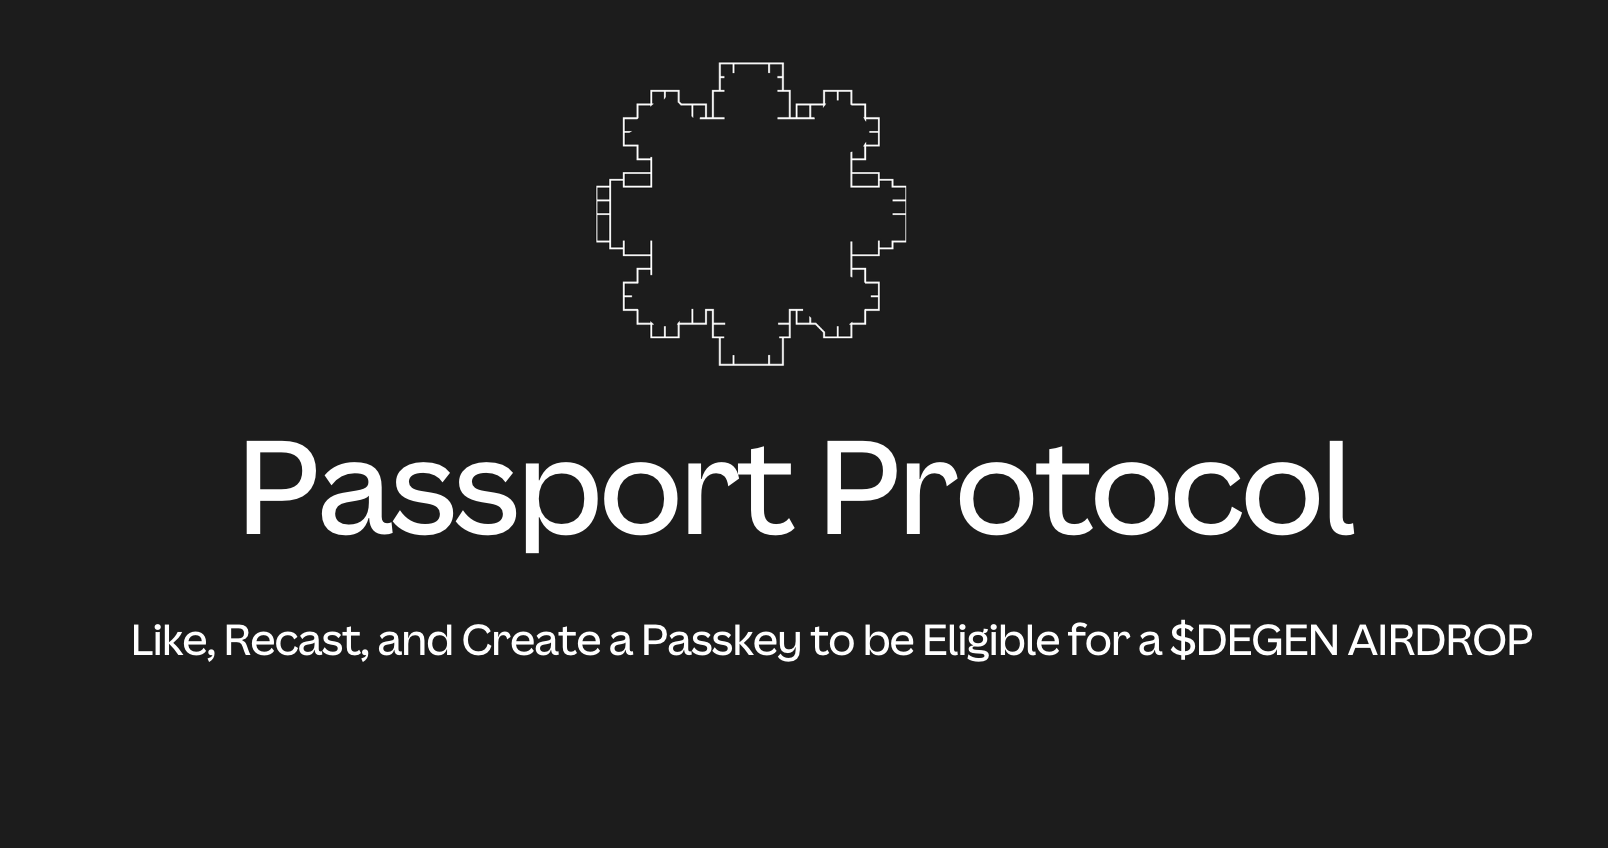
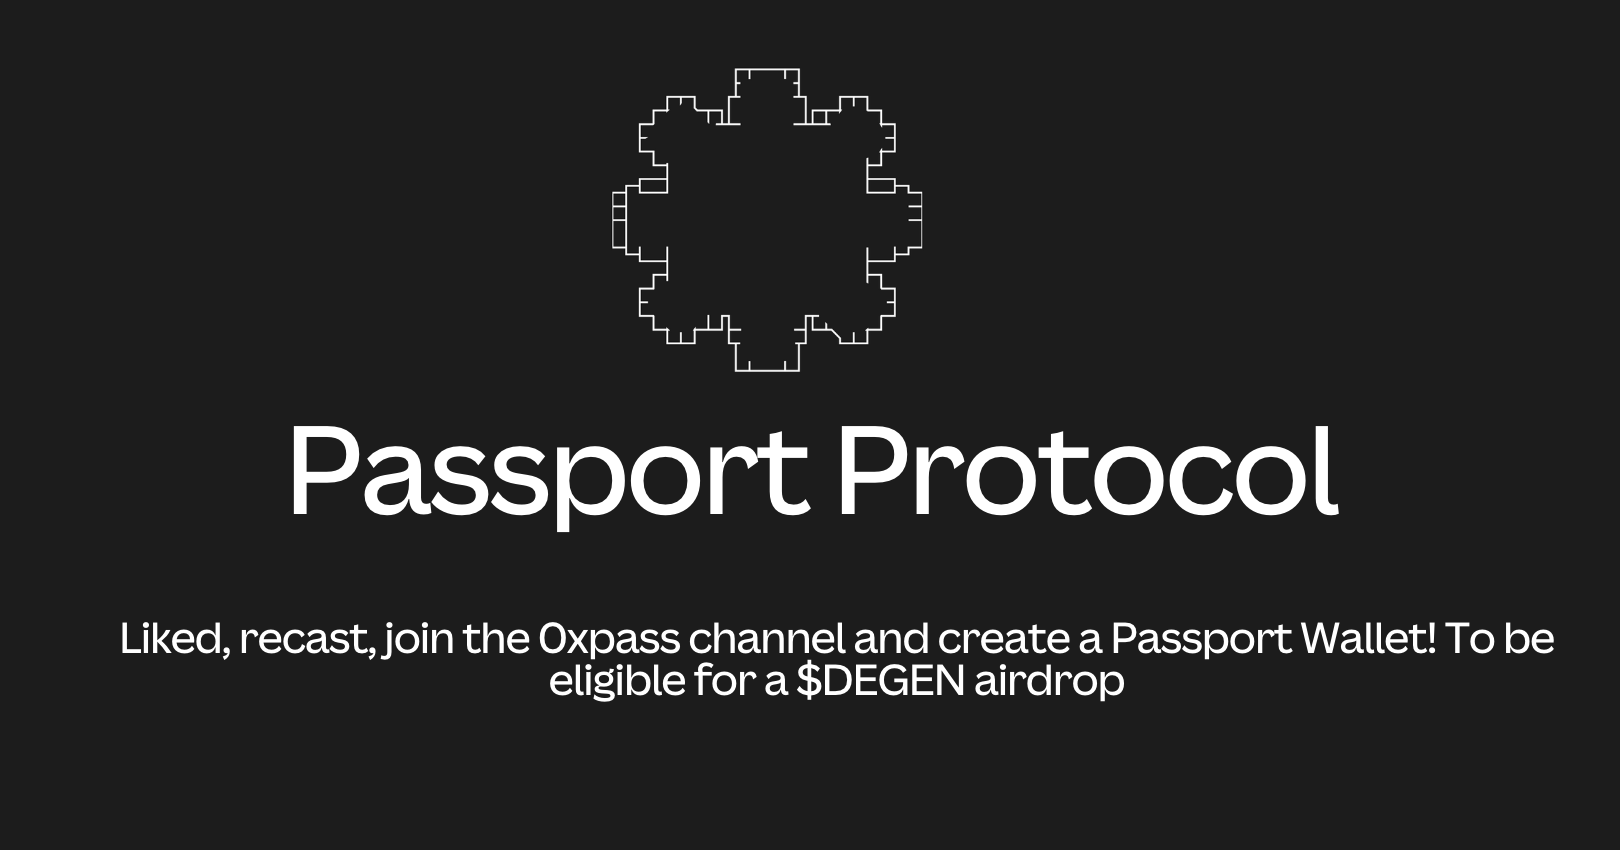
chore: require user in channel

Changed region(s): [[0.1555, 0.4906, 0.8396, 0.6439], [0.0622, 0.7358, 0.9639, 0.8278], [0.3731, 0.0613, 0.5908, 0.4599]]

diff --git a/app/api/eligibility/route.ts b/app/api/eligibility/route.ts
@@ -33,7 +33,23 @@ export async function POST(req: Request) {
   const liked = message?.liked;
   const recasted = message?.recasted;
 
-  if (address && liked && recasted) {
+  const userInChannelResponse = await fetch(
+    `https://api.neynar.com/v2/farcaster/channel/user?fid=${untrustedData.fid}`,
+    options,
+  );
+
+  if (!userInChannelResponse.ok) {
+    throw new Error(`Failed to fetch user details: ${userInChannelResponse.statusText}`);
+  }
+
+  const { channels } = await userInChannelResponse.json();
+  const inChannel = channels.some((channel: any) => channel.id === '0xpass');
+
+  const eligible = liked && recasted && address && inChannel;
+
+  if (eligible) {
+    await kv.set(`eligiblity:${username}`, true);
+
     return new NextResponse(
       getFrameHtmlResponse({
         image: {
